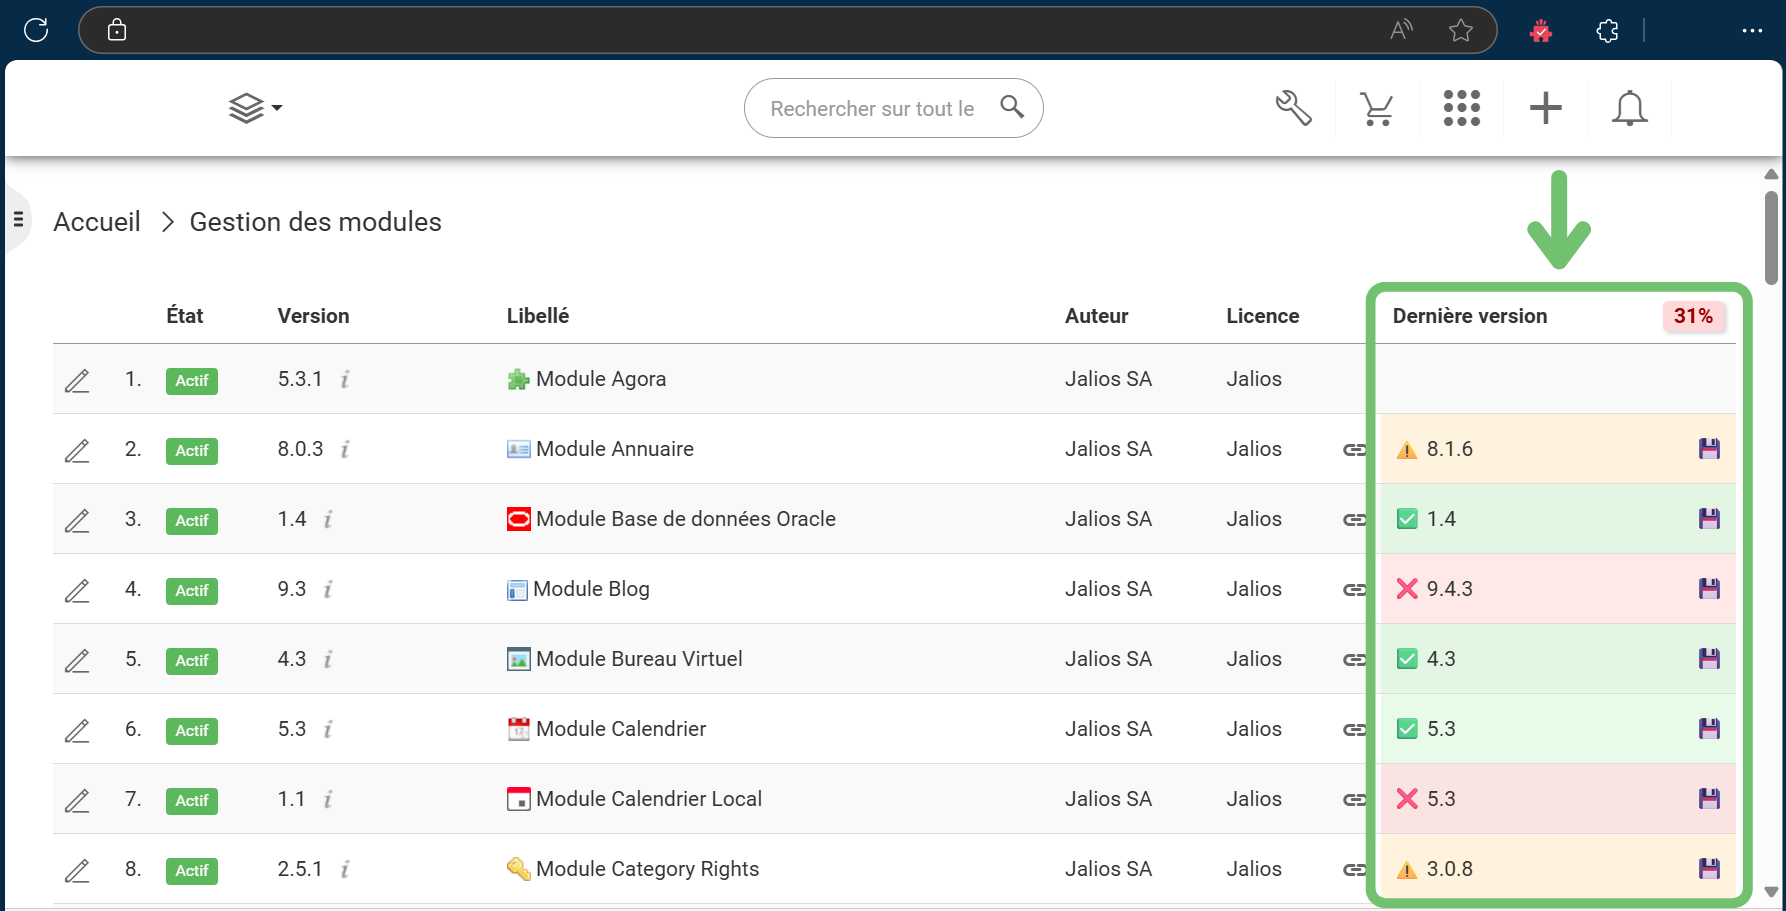
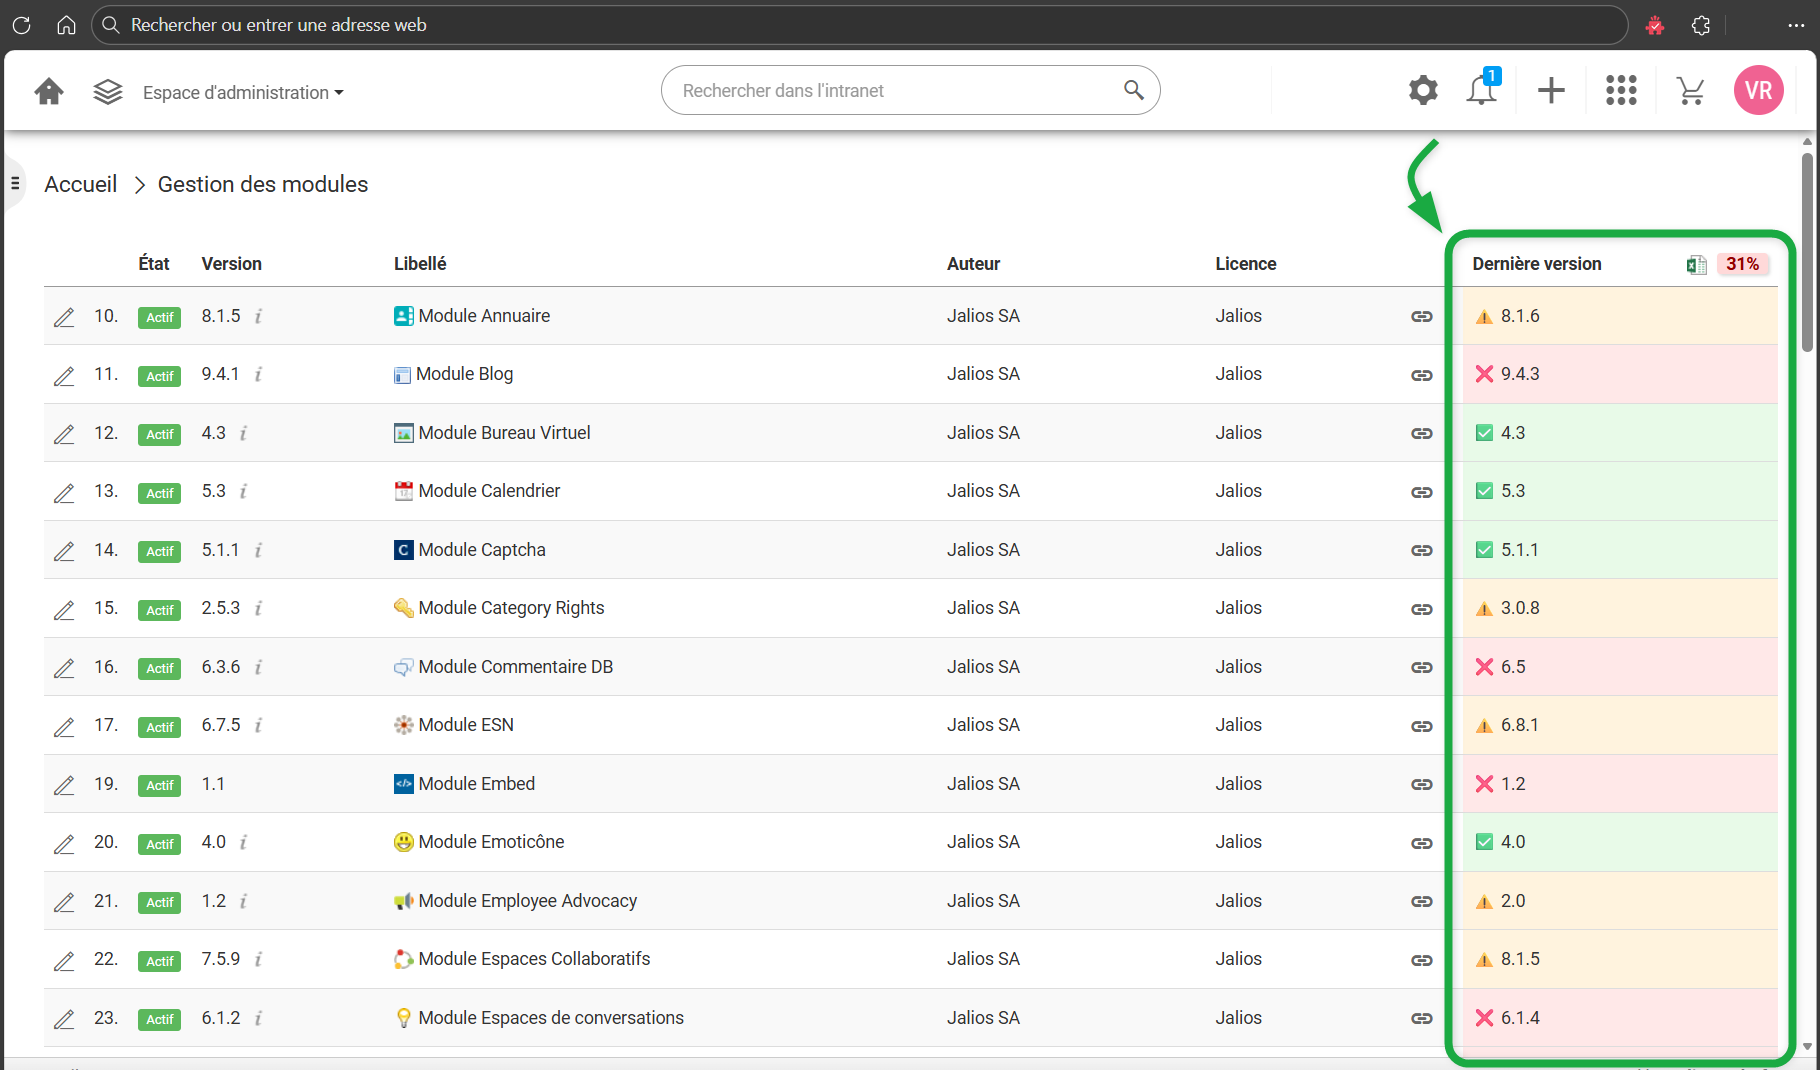
[FEAT] Export du rapport en CSV

diff --git a/content.js b/content.js
@@ -104,6 +104,75 @@ async function startPluginCheck(showDlLink) {
     });
   }
 
+  // Fonction d'export CSV
+  function exportToCSV() {
+    const csvRows = [];
+
+    const siteName = document.querySelector('meta[property="og:site_name"]')?.content;
+    const now = new Date();
+    const formatted = now.toLocaleString('fr-FR', {
+      day: '2-digit',
+      month: '2-digit',
+      year: 'numeric',
+      hour: '2-digit',
+      minute: '2-digit',
+    }).replace(',', '');
+    const exportInfo = siteName + ' - État des versions des modules au ' + formatted;
+    // En-tête CSV
+    csvRows.push(['Libellé', 'Version installé', 'Dernière version', 'Statut', ' ', exportInfo].join(';'));
+
+    // Parcourir toutes les lignes du tableau
+    rows.forEach((row) => {
+      const versionCell = row.querySelector("td:nth-child(4)");
+      const labelCell = row.querySelector("td:nth-child(5) a");
+      const lastVersionCell = row.querySelector("td.jpc-indicator");
+
+      const notFound = 'Introuvable';
+      const version = versionCell?.childNodes[0].nodeValue.trim() || notFound;
+      const label = labelCell?.textContent.trim() || notFound;
+      const lastVersion = lastVersionCell?.textContent.trim().replace('💾', '').trim() || notFound;
+      
+      // Déterminer le statut
+      let status = notFound;
+      if (lastVersionCell) {
+        if (lastVersionCell.classList.contains('up-to-date')) {
+          status = 'À jour';
+        } else if (lastVersionCell.classList.contains('to-update')) {
+          status = 'Mise à jour disponible';
+        } else if (lastVersionCell.classList.contains('not-compatible')) {
+          status = 'Mise à jour (incompatibilité possible)';
+        } else if (lastVersionCell.classList.contains('patch')) {
+          status = 'Nouveau patch disponible';
+        }
+      }
+
+      // Échapper les guillemets et ajouter la ligne
+      csvRows.push([
+        `"${label.replace(/"/g, '""')}"`,
+        `"${version.replace(/"/g, '""')}"`,
+        `"${lastVersion.replace(/"/g, '""')}"`,
+        `"${status}"`
+      ].join(';'));
+    });
+
+    // Créer le fichier CSV
+    const csvContent = '\uFEFF' + csvRows.join('\n'); // \uFEFF pour UTF-8 BOM
+    const blob = new Blob([csvContent], { type: 'text/csv;charset=utf-8;' });
+    const link = document.createElement('a');
+    const url = URL.createObjectURL(blob);
+    
+    // Nom du fichier avec date
+    const date = new Date().toISOString().split('T')[0];
+    link.setAttribute('href', url);
+    link.setAttribute('download', `jalios-plugins-report-${date}.csv`);
+    link.style.display = 'none';
+    
+    document.body.appendChild(link);
+    link.click();
+    document.body.removeChild(link);
+    URL.revokeObjectURL(url);
+  }
+
   // Chaque ligne de module
   const rows = document.querySelectorAll(".table-data > tbody > tr");
 
@@ -134,9 +203,16 @@ async function startPluginCheck(showDlLink) {
         rateClass = "medium";
       }
 
+      // Ajout du bouton d'export et du pourcentage de modules à jours en fin d'analyse
       document.querySelector(".jpc-th").innerHTML += `
-        <span class="rate ${rateClass}" title="Pourcentage de modules à jours.">${rate}%</span>
+        <span class="icons-wrapper">
+          <img src="images/jalios/icons/files/office2013/xlsx.png" class="jpc-export-btn" title="Exporter le rapport en CSV">
+          <span class="rate ${rateClass}" title="Pourcentage de modules à jours.">${rate}%</span>
+        </span>
       `;
+
+      // Événement déclenchant l'export
+      document.querySelector('.icons-wrapper img').addEventListener('click', exportToCSV);
 
       // message au service worker
       chrome.runtime.sendMessage({ type: "contentScriptFinished" });

diff --git a/style/jPlugCheck.css b/style/jPlugCheck.css
@@ -1,28 +1,40 @@
 .jpc.jpc-th {
-    cursor: help;
     .label-wrapper {
+        cursor: help;
         display: inline-block;
     }
 
-    .rate {
+    .icons-wrapper {
         float: right;
-        padding: 0px 7px;
-        border-radius: 3px;
-        box-shadow: rgba(0, 0, 0, 0.15) 1.6px 1.6px 2.6px;
-        cursor: help;
+        .jpc-export-btn {
+            margin-right: 5px;
+            cursor: pointer;
+            &:active {
+                transform: translateY(1px);
+                box-shadow: rgba(0, 0, 0, 0.1) 0px 1px 2px;
+            }
+        }
+
+        .rate {
+            padding: 0px 7px;
+            border-radius: 3px;
+            box-shadow: rgba(0, 0, 0, 0.15) 1.6px 1.6px 2.6px;
+            cursor: help;
+        }
+        .rate.good {
+            background-color: #00c80026;
+            color: #005d00;
+        }
+        .rate.medium {
+            background-color: #ffa60040;
+            color: #6c4600;
+        }
+        .rate.bad {
+            background-color: #ff000026;
+            color: #960000;
+        }
     }
-    .rate.good {
-        background-color: #00c80026;
-        color: #005d00;
-    }
-    .rate.medium {
-        background-color: #ffa60040;
-        color: #6c4600;
-    }
-    .rate.bad {
-        background-color: #ff000026;
-        color: #960000;
-    }
+
 }/* .jpc.jpc-th */
 
 .jpc.jpc-indicator {

diff --git a/README.md b/README.md
@@ -33,11 +33,12 @@ Elle met en évidence les **plugins nécessitant une mise à jour**, directement
   - ❌ Nouvelle version disponible
   - ⚠ Nouvelle version disponible, mais incompatibilité potentielle
   - 🩹 Nouveau patch disponible
-- **[NEW] Taux de mise à jour :** affiche le pourcentage de modules Jalios à jour.
-- **[NEW] Indicateur de compatibilité :** alerte sur le risque d'incompatibilité entre la dernière version d'un module et la version courante de JPlatform.
-- **[NEW] Lien de téléchargement direct :** option permettant d'ajouter le lien de téléchargement du dernier module.
-- **[NEW] Légende claire :**  détails des icônes affichées directement dans la popup de l'extension.
+- **Taux de mise à jour :** affiche le pourcentage de modules Jalios à jour.
+- **Indicateur de compatibilité :** alerte sur le risque d'incompatibilité entre la dernière version d'un module et la version courante de JPlatform.
+- **Lien de téléchargement direct :** option permettant d'ajouter le lien de téléchargement du dernier module.
+- **Légende claire :**  détails des icônes affichées directement dans la popup de l'extension.
 - **Fonctionnement ciblé :** le lancement n'est possible que depuis la page de gestion des modules.
+- **[NEW] Export CSV :** ajout d'une icône permettant de télécharger le rapport au format CSV
 
 > [!NOTE]  
 > Les fonctionnalités suivantes nécessitent d'être **préalablement connecté** à Jalios Community :
@@ -99,6 +100,7 @@ git clone https://github.com/RudyLaban/JPlugCheck.git
 - [x] ℹ Indication sur la compatibilité d'un nouveau module avec la version de JPlatform
 - [x] 💯 Pourcentage de modules à jour
 - [x] ⬇ Téléchargement des plugins directement depuis l’extension
+- [x] 📊 Export du rapport en CSV
 - [ ] 🎨 Amélioration de l’interface utilisateur
 
 ### Techniques

diff --git a/changelog.md b/changelog.md
@@ -1,5 +1,11 @@
 # CHANGELOG
 
+## 1.3 - En cours
+
+### Feats
+
+- Export du rapport en CSV
+
 ## 1.2 - Publiée (30.06.25)
 
 ### Feats
